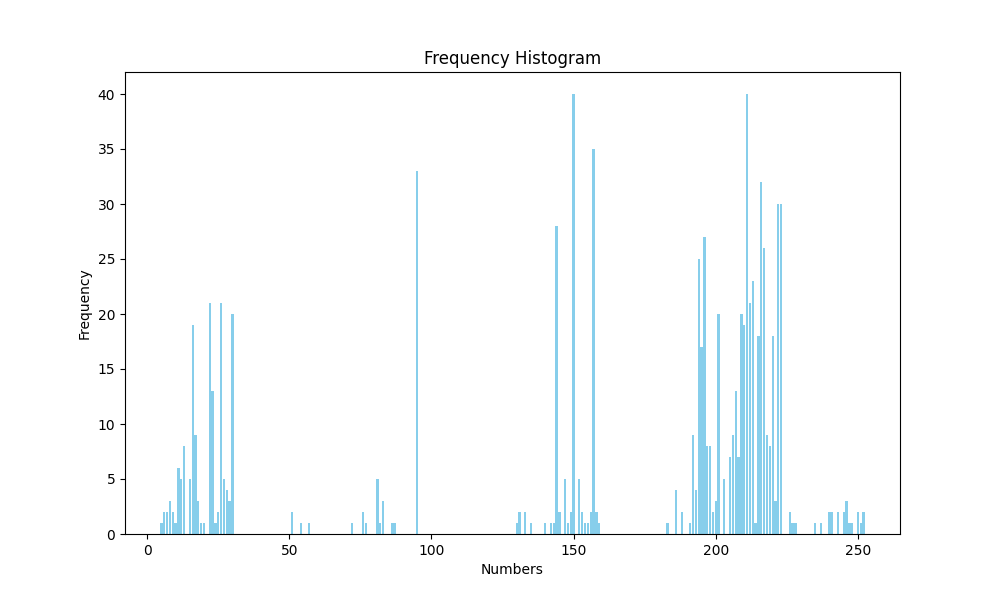
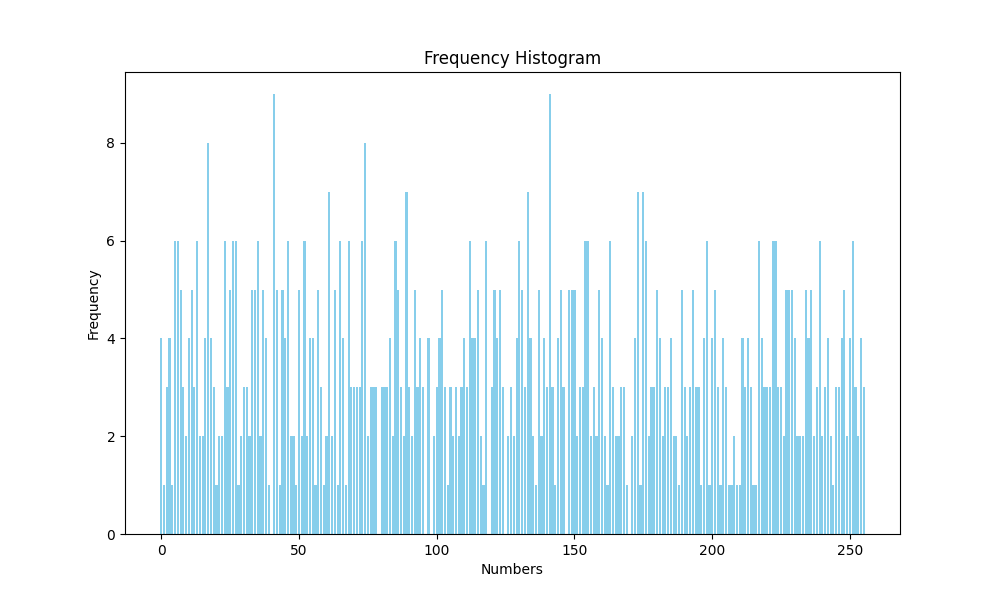
Chaotic Cipher 512 now live 🎉

diff --git a/main.py b/main.py
@@ -1,14 +1,14 @@
 from feistelStructure import FeistelStructure
 import numpy as np
 
-block_size = 32
-num_rounds = 12
-key_length_bytes = 16
+block_size = 1024
+num_rounds = 16
+key_length_bytes = 512
 r = 3.9
 
 feistel = FeistelStructure(block_size, num_rounds, key_length_bytes, r)
 
-feistel.running_time()
+# feistel.running_time()
 key = feistel.generate_key()
 
 # feistel.encrypt_file("test files/basic.txt",
@@ -17,14 +17,25 @@ key = feistel.generate_key()
 # feistel.decrypt_file("output files/encrypted files/basic.txt",
 #                      "output files/decrypted files/basic.txt", key)
 
-input_text = "Read the introduction and conclusion: These sections usually summarize the paper's main argument or thesis"
+input_text2 = "Read the introduction and conclusion: These sections usually summarize the paper's main argument or thesis"
+input_text = '''To observe its chaotic behaviors, its bifurcation diagram and Lyapunov Exponent are presented in
+Fig. 2(a) and Fig. 3(a). In the bifurcation diagram shown in Fig. 2(a), the dotted line shows its good chaotic
+behavior and the solid line represents its non-chaotic property. There are two problems in the Logistic map.
+First, its chaotic range is limited only within [3.57, 4]. Even within this range, there are some parameters
+which make the Logistic map to have no chaotic behaviors. This is verified by the blank zone in its bi-
+furcation diagram and plot of the Lyapunov Exponent in Fig. 3(a). For the Lyapunov Exponent, a positive
+value means a good chaotic property of a chaotic map. As shown in Fig. 3(a), the Lyapunov Exponents
+of the Logistic map are smaller than zero when parameter r < 3.57. Second, the data range of the chaotic'''
+
 input_data = feistel.string_to_ascii(input_text)
 
 avalanche_effect = feistel.avalanche_effect(input_data, key)
+print("Avalanche effect: ", avalanche_effect)
 
 
 encrypted_data = feistel.encrypt_data(input_data, key)
 encrypted_text = feistel.ascii_to_string(encrypted_data)
+# print("Encrypted Text: ", encrypted_text)
 
 decrypted_data = feistel.decrypt_data(encrypted_data, key)
 decrypted_text = feistel.ascii_to_string(decrypted_data)
@@ -33,7 +44,12 @@ decrypted_text = feistel.ascii_to_string(decrypted_data)
 # feistel.frequency_histogram(input_data, "input_histogram.png")
 # feistel.frequency_histogram(encrypted_data, 'encrypted_histogram.png')
 
-print("Decrypted text: ", decrypted_text)
+# print("Decrypted text: ", decrypted_text)
 print("Decryption matches input: ", np.array_equal(input_data, decrypted_data))
 # print("Confusion score: ", feistel.confusion_score(input_block, decrypted_data))
 # print("Diffusion score: ", feistel.diffusion_score(input_block, decrypted_data))
+
+# feistel.encrypt_file("test files/basic.txt",
+#                      "output files/encrypted files/basic.txt", key)
+# feistel.decrypt_file("output files/encrypted files/basic.txt",
+#                      "output files/decrypted files/basic.txt", key)

diff --git a/feistelStructure.py b/feistelStructure.py
@@ -27,6 +27,7 @@ class FeistelStructure:
         self.num_rounds = num_rounds
         self.key_length_bytes = key_length_bytes
         self.r = r
+        self.max_int = 2**64 - 1
 
     def logistic_chaotic_map(self, x):
         """Compute the next value in a chaotic map sequence.
@@ -113,6 +114,7 @@ class FeistelStructure:
         Returns:
             tuple: The updated left and right halves of the block.
         """
+
         logistic_C = self.logistic_chaotic_map(R)
 
         sine_C = self.sine_chaotic_map(R, 2)
@@ -120,9 +122,12 @@ class FeistelStructure:
         C = logistic_C + sine_C
         C = C.astype(int)
 
-        C = C % 1
+        C = C % 256
 
-        F = L ^ C
+        Rx = np.roll(R, C)
+        
+        F = L ^ Rx
+        F = F.astype(int)
         F ^= round_key
         return R, F
 
@@ -136,7 +141,11 @@ class FeistelStructure:
         Returns:
             numpy.ndarray: The encrypted block.
         """
-        L, R = np.split(block, 2)
+        try:
+            L, R = np.split(block, 2)
+        except:
+            print("Block size: ", len(block))
+            raise ValueError("Block size should be a multiple of 2")
         # round_keys = [key] * self.num_rounds
         for i in range(self.num_rounds):
             L, R = self.feistel_round(L, R, round_keys[i])
@@ -246,10 +255,12 @@ class FeistelStructure:
         # print("Encrypted Data: ", encrypted_data)
         # Convert the string back to a numpy array of ASCII values
         encrypted_data = self.string_to_ascii(input_data)
-        print("Encrypted Data: ", encrypted_data)
 
         decrypted_data = self.decrypt_data(encrypted_data, key)
         decrypted_data = self.ascii_to_string(decrypted_data)
+        print("Decrypted Data: ", decrypted_data)
+        avalanche_effect = self.avalanche_effect(encrypted_data, key)
+        print("Avalanche effect: ", avalanche_effect)
         with open(output_file, "w") as f:
             f.write(decrypted_data)
 
